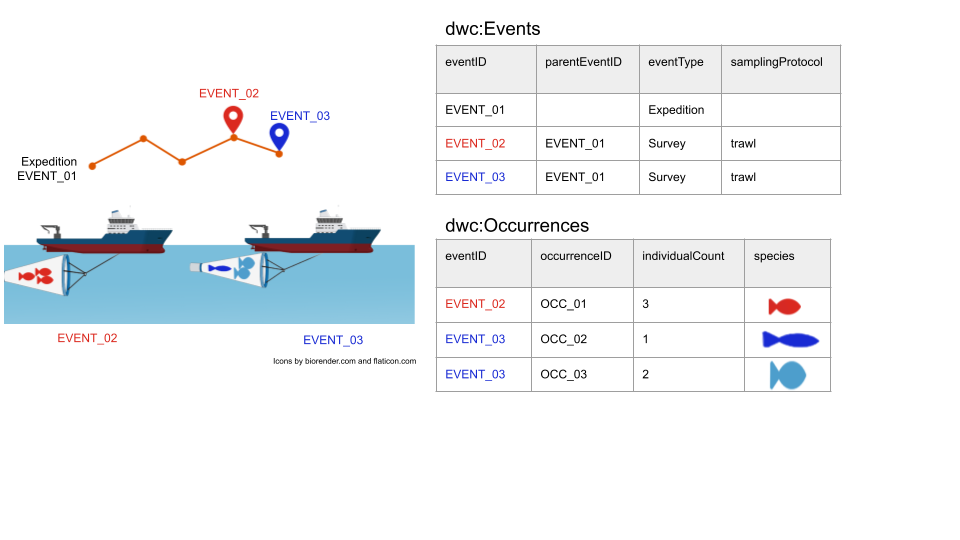
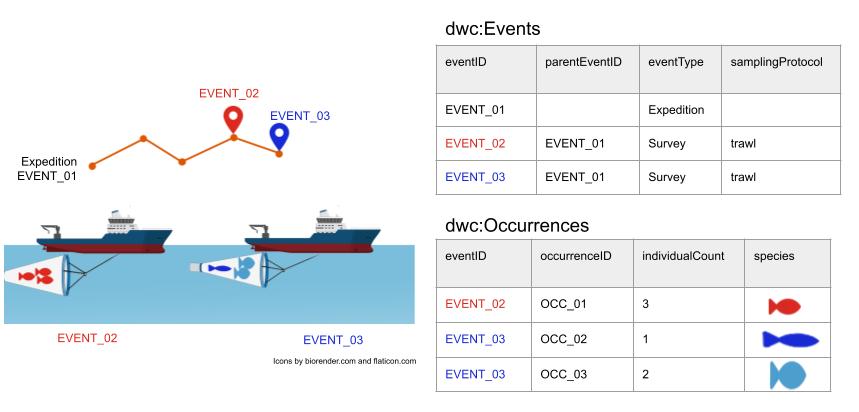
crop Fig. 2 and create anchors and links within doc

diff --git a/build/dwc_doc_hierarchy/index.md b/build/dwc_doc_hierarchy/index.md
@@ -32,6 +32,7 @@ Creator
 Bibliographic citation
 : {creator}. {year}. {document_title}. {publisher}. <{current_iri}{ratification_date}>
 
+<a id="introduction">
 ## 1 Introduction (non-normative)
 
 ### 1.1 Status of the content of this document
@@ -53,13 +54,13 @@ when, and only when, they are written in capitals (as shown here).
 
 ## 1.3 Namespaces and terminology
 
-The namespace 'eco:' abbreviates terms minted for the Humboldt Extension
+The namespace `eco:` abbreviates terms minted for the Humboldt Extension
 for ecological inventories
 ([http://rs.tdwg.org/eco/terms/](http://rs.tdwg.org/eco/terms/)).
-'dwc:' abbreviates terms from the main Darwin Core vocabulary namespace
+`dwc:` abbreviates terms from the main Darwin Core vocabulary namespace
 ([http://rs.tdwg.org/dwc/terms/](http://rs.tdwg.org/dwc/terms/)).
 
-Words in code markup are term IRIs or literal values. The word
+Words in `code markup` are term IRIs or literal values. The word
 "organism" is used colloquially and is not used in the technical sense
 of the dwc:Organism class, unless specifically presented as
 "dwc:Organism." The word "Event" is used in the technical sense of the
@@ -80,24 +81,25 @@ shared by data providers, specifically with respect to the
 or is not appropriate to make inferences** about attributes such as
 abundance or absence of detection.
 
+<a id="rationale">
 ## 2 Rationale (non-normative)
 
 Ecological inventories in the context of Darwin Core can be considered
-as types of [dwc:Events](https://dwc.tdwg.org/list/#dwc_Event)
+as types of [dwc:Events](http://rs.tdwg.org/dwc/terms/Event)
 --- they are actions that occur at specific locations over defined
 periods of time. The terms in the Humboldt Extension are all properties
 of a dwc:Event.
 
 There are many types of ecological inventory, ranging from singular
 observations of individual taxa (1 event:1 observation; Example 1 in
-Figure 1) to highly structured and deeply nested observations within
+<a href="#fig1">Figure 1</a>) to highly structured and deeply nested observations within
 other observations (e.g., 1 event:2 sub-events, each sub-event:2
-sub-sub-events; Example 4 in Figure 1). The need for guidance on **how
+sub-sub-events; Example 4 in <a href="#fig1">Figure 1</a>). The need for guidance on **how
 to capture the details of nested observations** (dwc:Event hierarchies)
 is the rationale for this document. Nested sampling designs can be
 translated into a relational database schema of parent-child dwc:Event
-relationships (a parent event with one or more child sub-events; Figure
-1). This document describes the circumstances under which specific
+relationships (a parent event with one or more child sub-events; <a href="#fig1">Figure
+1</a>). This document describes the circumstances under which specific
 properties of parent and child dwc:Events SHOULD be populated based on
 the parent-child relationship.
 
@@ -110,9 +112,9 @@ share inventory data such that no information is lost and no information
 is incorrectly inferred, one SHOULD **report all information at all
 applicable levels**. The rules for applicability and how to populate
 terms at parent and child levels in the dwc:Event hierarchy are captured
-in section *3.2 Guiding principles* and in section *3.3 Implementation
-principles*.
+in section *<a href="#guiding">3.2 Guiding principles</a>* and in section *<a href="#implemenation">3.3 Implementation principles</a>*.
 
+<a id="fig1">
 ![Illustration of four examples of nested dwc:Events](fig1.png)
 
 **Figure 1.** Visual representation of an ecological inventory
@@ -120,6 +122,7 @@ illustrating four examples of occurrence data associated with dwc:Events
 nested within parent dwc:Events, at varying levels of complexity ranging
 from low (Example 1) to high (Example 4).
 
+<a id="usage">
 ## 3 Usage guidelines (normative)
 
 ### 3.1 Definitions
@@ -151,8 +154,10 @@ dwc:Event, EVENT_01, may include general information about the inventory
 design. Species occurrences are captured for two child dwc:Events
 (EVENT_02 and EVENT_03).
 
+<a id="guiding">
 ## 3.2 Guiding principles
 
+<a id="coverage">
 ### 3.2.1 Principle of spatiotemporal coverage
 
 **A parent dwc:Event MUST encompass its child dwc:Events spatially
@@ -166,6 +171,7 @@ throughout the year 2019, the temporal interval of the parent dwc:Event
 would begin when the earliest child dwc:Event began and end when the
 latest child dwc:Event ended.
 
+<a id="applicability">
 ### 3.2.2 Principle of applicability
 
 **Humboldt Extension terms SHOULD contain data explicitly at every level
@@ -186,6 +192,7 @@ specific values. This principle allows child dwc:Events to be
 "autonomous" to the greatest degree possible, and avoids uncertainty
 about where to look for the values of properties of any given dwc:Event.
 
+<a id="non-derivation">
 ### 3.2.3 Principle of non-derivation
 
 As a complement to the *Principle of applicability*, **Humboldt
@@ -194,7 +201,7 @@ information from child dwc:Events to their common parent dwc:Event**. If
 a term does not directly apply to a given level of dwc:Event (i.e., it
 is not an actual property of that dwc:Event), it SHOULD NOT be populated
 with a value. For example, if the parent dwc:Event **P** from the
-example in section *3.2.2* above is not directly linked to
+example in section *<a href="#applicability">3.2.2</a>* above is not directly linked to
 dwc:Occurrences, then the term eco:hasVouchers does not apply at that
 dwc:Event level and SHOULD be left unpopulated. Data providers SHOULD
 NOT construct a value for a parent dwc:Event from values at the level of
@@ -230,6 +237,7 @@ susceptible to errors (ambiguities, inconsistencies, incompleteness)
 when trying to construct secondary summary information for higher-level
 Events.
 
+<a id="inference">
 ### 3.2.4 Principle of inference
 
 **Certain terms in the Humboldt Extension support inferences.** Examples
@@ -294,6 +302,7 @@ a known variable in the inventory protocol, then a presumed scope may be
 too broad or too narrow, leading to errors when inferring counts of
 zero.
 
+<a id="implementation">
 ## 3.3 Implementation principles
 
 1.  A Darwin Core-based inventory dataset MUST consist of at least one
@@ -317,19 +326,19 @@ dwc:Event's dwc:parentEventID.
 4](https://dwc.tdwg.org/simple/#5-are-there-any-rules-normative),
 which is to fill the values of as many terms as possible, subject
 to the *Principle of applicability* and the *Principle of
-non-derivation* (sections *3.2.2* and *3.2.3*, respectively).
+non-derivation* (sections *<a href="#applicability">3.2.2</a>* and *<a href="#non-derivation">3.2.3</a>*, respectively).
 
 6.  A child dwc:Event MUST NOT be assumed to implicitly "inherit" the
 value of any property of any of its parent dwc:Events; rather, the
-value SHOULD be provided explicitly as discussed in section *3.2.2
-Principle of applicability*.
+value SHOULD be provided explicitly as discussed in section *<a href="#applicability">3.2.2
+Principle of applicability</a>*.
 
 7.  A parent dwc:Event term SHOULD NOT be populated by deriving or
 summarizing information from child dwc:Events; rather, the value
 SHOULD be provided explicitly if appropriate to the nature and
-level of the dwc:Event, as discussed in section *3.2.3 Principle
-of non-derivation*.
+level of the dwc:Event, as discussed in section *<a href="#non-derivation">3.2.3 Principle of non-derivation</a>*.
 
+<a id="examples">
 ## 4 Examples (non-normative)
 
 ![Tables illustrating implementation principles](fig3.png)
